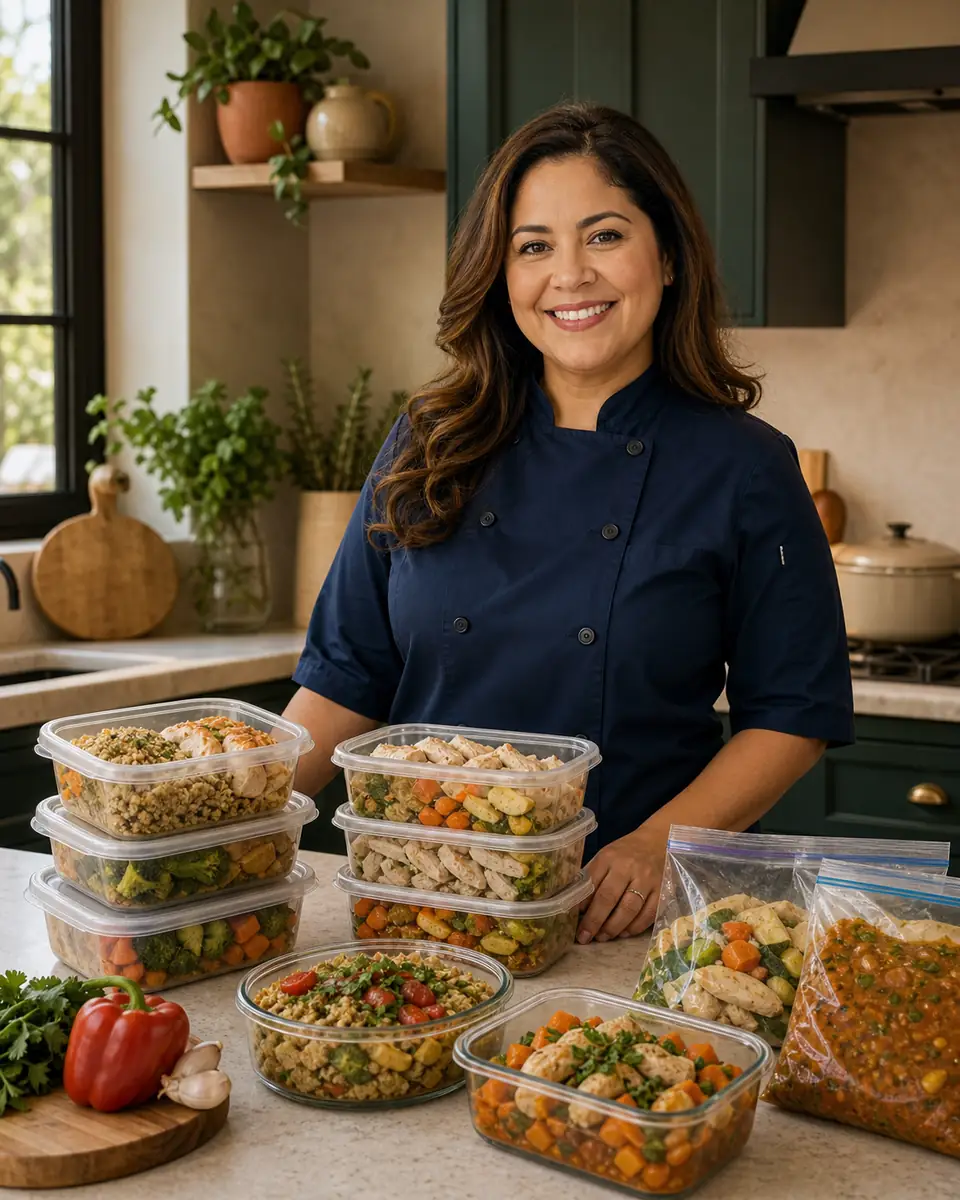
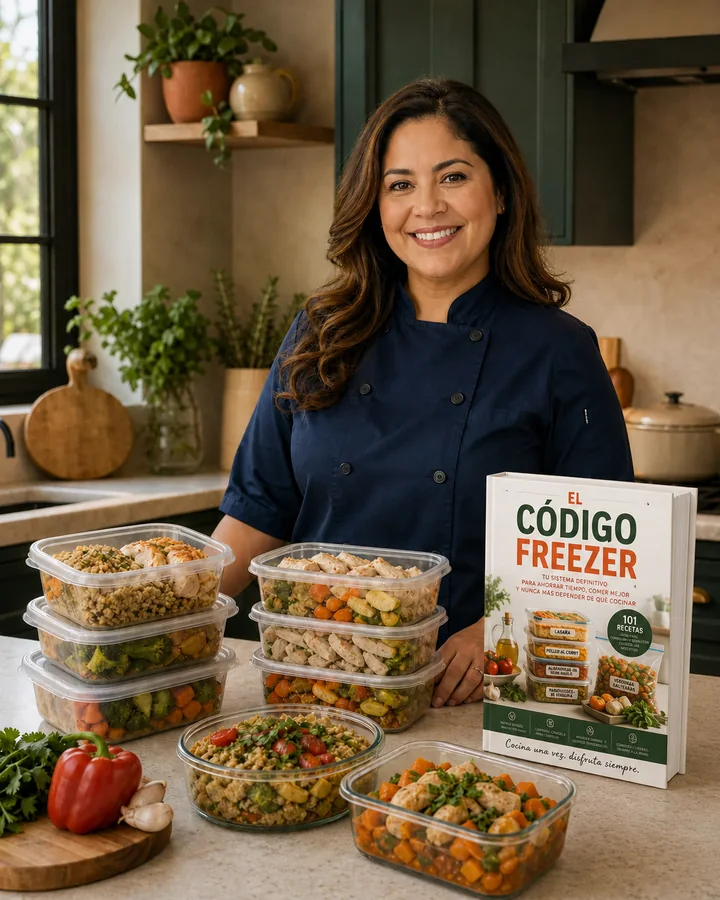
feat: actualiza landing El Codigo Freezer

diff --git a/index.html b/index.html
@@ -9,9 +9,24 @@
     <link rel="preconnect" href="https://fonts.gstatic.com" crossorigin>
     <link href="https://fonts.googleapis.com/css2?family=Fraunces:ital,opsz,wght@0,9..144,300;0,9..144,400;0,9..144,500;0,9..144,600;0,9..144,700;0,9..144,900;1,9..144,400&amp;family=Inter:wght@300;400;500;600;700&amp;display=swap" rel="stylesheet">
     <link rel="stylesheet" href="styles.css">
+    <script>
+      !function(f,b,e,v,n,t,s){if(f.fbq)return;n=f.fbq=function(){n.callMethod?
+      n.callMethod.apply(n,arguments):n.queue.push(arguments)};if(!f._fbq)f._fbq=n;
+      n.push=n;n.loaded=!0;n.version='2.0';n.queue=[];t=b.createElement(e);t.async=!0;
+      t.src=v;s=b.getElementsByTagName(e)[0];s.parentNode.insertBefore(t,s)}(window, document,'script','https://connect.facebook.net/en_US/fbevents.js');
+      fbq('init', '2003595164094318');
+      fbq('track', 'PageView');
+      fbq('track', 'ViewContent', {
+        content_name: 'EL CÓDIGO FREEZER',
+        content_type: 'product',
+        currency: 'USD',
+        value: 9.90
+      });
+    </script>
     <script src="script.js" defer></script>
   </head>
   <body>
+    <noscript><img height="1" width="1" style="display:none" alt="" src="https://www.facebook.com/tr?id=2003595164094318&amp;ev=PageView&amp;noscript=1"></noscript>
     <a class="skip-link" href="#contenido">Saltar al contenido</a>
 
     <div class="ticker" aria-label="Información de la oferta">
@@ -42,8 +57,8 @@
     <main id="contenido">
       <section class="hero section-shell">
         <div class="hero__copy">
-          <p class="eyebrow">Método de cocina por lotes</p>
-          <h1>Recetas<br><em>saludables</em> <span>para</span><br><u>congelar.</u></h1>
+          <p class="eyebrow">EL CÓDIGO FREEZER</p>
+          <h1>Recetas<br><em>prácticas</em> <span>para</span><br><u>congelar.</u></h1>
           <p class="hero__lead"><span>Deja de cocinar desde cero</span> <span>todas las semanas.</span></p>
 
           <figure class="hero__visual hero__visual--mobile">
@@ -54,7 +69,7 @@
 
           <div class="hero__action">
             <a class="button" href="#ofertas">Quiero las recetas <span aria-hidden="true">→</span></a>
-            <div class="price-inline price-pending"><s>USD —</s> <strong>USD —</strong> <small>pago único</small></div>
+            <div class="price-inline"><s>USD 27</s> <strong>USD 9.90</strong> <small>pago único</small></div>
           </div>
 
           <p class="hero__detail">Más de <strong>100 recetas</strong> de comidas saludables, listas y deliciosas para cocinar una vez y comer bien toda la semana.</p>
@@ -75,7 +90,7 @@
       </section>
 
       <section class="benefits section-shell">
-        <h2>Una cocina que <em>trabaja</em> a tu favor, no en tu contra.</h2>
+        <h2>Un Freezer que trabaja para ti, no en tu contra.</h2>
         <div class="benefits__grid">
           <article><b>01</b><h3>Cocina una vez</h3><p>Prepara toda la semana sin renunciar al sabor ni a la salud.</p></article>
           <article><b>02</b><h3>Más de 100 recetas</h3><p>Prácticas y congelables, sin perder textura ni valor nutricional.</p></article>
@@ -142,28 +157,28 @@
 
       <section class="bonuses">
         <div class="section-shell">
-          <h2>Compra hoy y recibe <em>USD — en bonos.</em></h2>
+          <h2>Compra hoy y recibe <em>USD 61 en bonos.</em></h2>
           <div class="bonus-grid">
             <article>
               <div class="bonus-meta"><span>Bono 01</span><b>Gratis hoy</b></div>
-              <img class="bonus-cover" src="assets/bono-01.webp" width="600" height="450" loading="lazy" alt="Portada del bono Plan de Porciones Inteligentes">
-              <h3>Plan de Porciones Inteligentes</h3>
-              <ul><li>4 menús completos</li><li>Más de 30 días organizados</li><li>Lista de compras estratégica</li><li>Cero desperdicio</li><li>Alineado con las recetas del libro</li></ul>
-              <div class="bonus-price"><span>Valor</span><s>R$ 67</s></div>
+              <img class="bonus-cover" src="assets/bono-01-etiquetas-freezer.webp" width="600" height="450" loading="lazy" alt="Portada del bono Pack de Etiquetas Freezer">
+              <h3>Pack de Etiquetas Freezer</h3>
+              <ul><li>Etiquetas listas para identificar tus comidas</li><li>Control visual de fecha y contenido</li><li>Organiza por tipo de preparación</li><li>Evita confusiones al descongelar</li><li>Conserva mejor cada porción</li></ul>
+              <div class="bonus-price"><span>Valor</span><s>USD 17</s></div>
             </article>
             <article>
               <div class="bonus-meta"><span>Bono 02</span><b>Gratis hoy</b></div>
-              <img class="bonus-cover" src="assets/bono-02.webp" width="600" height="450" loading="lazy" alt="Portada del bono Menús Semanales Listos">
-              <h3>Menús Semanales Listos</h3>
-              <ul><li>Semanas temáticas</li><li>Comidas equilibradas nutricionalmente</li><li>Combinaciones para congelar</li><li>Formato práctico para imprimir o guardar</li></ul>
-              <div class="bonus-price"><span>Valor</span><s>R$ 47</s></div>
+              <img class="bonus-cover" src="assets/bono-02-30-menus-freezer.webp" width="600" height="450" loading="lazy" alt="Portada del bono 30 Menús Freezer Listos">
+              <h3>30 Menús Freezer Listos</h3>
+              <ul><li>30 menús completos para congelar</li><li>Opciones desde lo básico a lo avanzado</li><li>Comidas saludables y deliciosas</li><li>Ideas pensadas para ahorrar tiempo y dinero</li></ul>
+              <div class="bonus-price"><span>Valor</span><s>USD 29</s></div>
             </article>
             <article>
               <div class="bonus-meta"><span>Bono 03</span><b>Gratis hoy</b></div>
-              <img class="bonus-cover" src="assets/bono-03.webp" width="600" height="450" loading="lazy" alt="Portada del bono Guía de Organización del Congelador">
-              <h3>Guía de Organización del Congelador</h3>
-              <ul><li>Almacenamiento profesional</li><li>Etiquetado y control de caducidad</li><li>Consejos para conservar cada comida</li><li>Checklist de envases adecuados</li></ul>
-              <div class="bonus-price"><span>Valor</span><s>R$ 39</s></div>
+              <img class="bonus-cover" src="assets/bono-03-pack-planificador-freezer.webp" width="600" height="450" loading="lazy" alt="Portada del bono Pack Planificador Freezer">
+              <h3>Pack Planificador Freezer</h3>
+              <ul><li>Planifica tus compras antes de cocinar</li><li>Organiza tus menús por semana</li><li>Congela sin estrés y con método</li><li>Ahorra tiempo y dinero en la cocina</li></ul>
+              <div class="bonus-price"><span>Valor</span><s>USD 15</s></div>
             </article>
           </div>
           <p class="bonus-note">Atención: estos bonos forman parte de una edición limitada y pueden dejar de estar disponibles sin previo aviso.</p>
@@ -172,35 +187,22 @@
 
       <section class="offers section-shell" id="ofertas">
         <div class="section-heading section-heading--center">
-          <h2>Elige tu <em>edición.</em></h2>
-          <p>Precios expresados en USD, acceso de por vida y garantía comercial de 7 días.</p>
+          <h2>Accede a <em>EL CÓDIGO FREEZER.</em></h2>
+          <p>Un solo acceso en USD, entrega por correo electrónico, acceso de por vida y garantía comercial de 7 días.</p>
         </div>
 
         <div class="offer-grid">
-          <article class="offer-card">
-            <p class="eyebrow">Edición esencial</p>
-            <h3>Edición Esencial</h3>
-            <ul class="check-list">
-              <li>Más de 100 recetas saludables</li><li>Soporte y garantía de 7 días</li><li>Acceso de por vida</li><li>Calorías y macros</li><li>Guía de utensilios y envases</li><li>Opciones sin gluten y sin lactosa</li>
-            </ul>
-            <p class="bonus-label bonus-label--missing">+ Bonos incluidos</p>
-            <ul class="missing-list"><li>Plan de Porciones Inteligentes (+30 días)</li><li>Menús semanales listos</li><li>Guía de organización del congelador</li></ul>
-            <div class="offer-price offer-price--pending"><s>USD —</s><strong>USD —</strong><small>Precio pendiente de aprobación</small></div>
-            <button class="button button--wide button--disabled" type="button" disabled><span>Comprar ahora</span><span aria-hidden="true">→</span></button>
-            <small>Compra segura · garantía de 7 días</small>
-          </article>
-
           <article class="offer-card offer-card--featured">
-            <span class="popular">Más elegido</span>
-            <p class="eyebrow eyebrow--light">Edición completa</p>
-            <h3>Edición Completa</h3>
+            <span class="popular">Oferta única</span>
+            <p class="eyebrow eyebrow--light">Acceso completo</p>
+            <h3>EL CÓDIGO FREEZER</h3>
             <ul class="check-list">
-              <li>Más de 100 recetas saludables</li><li>Calorías y macros</li><li>Guía de utensilios y envases</li><li>Opciones sin gluten y sin lactosa</li><li>Soporte y garantía de 7 días</li><li>Acceso de por vida</li>
+              <li>101 recetas organizadas por categorías</li><li>Método Freezer: cocinar, enfriar, congelar y disfrutar</li><li>Guía práctica de porcionado, etiquetado y almacenamiento</li><li>Orientación para descongelar sin arruinar sabor ni textura</li><li>Ideas para combinar proteínas, guarniciones y salsas</li><li>Entrega por correo, acceso de por vida y garantía de 7 días</li>
             </ul>
             <p class="bonus-label">+ Bonos incluidos</p>
-            <ul class="check-list check-list--bonus"><li>Plan de Porciones Inteligentes</li><li>Menús semanales listos</li><li>Guía del congelador</li><li>Actualizaciones de por vida</li></ul>
-            <div class="offer-price offer-price--pending"><s>USD —</s><strong>USD —</strong><small>Precio pendiente de aprobación</small></div>
-            <button class="button button--cream button--wide button--disabled" type="button" disabled><span>Comprar ahora</span><span aria-hidden="true">→</span></button>
+            <ul class="check-list check-list--bonus"><li>Pack de Etiquetas Freezer</li><li>30 Menús Freezer Listos</li><li>Pack Planificador Freezer</li><li>USD 61 en bonos incluidos hoy</li></ul>
+            <div class="offer-price"><s>USD 27</s><strong>USD 9.90</strong><small>pago único</small></div>
+            <a class="button button--cream button--wide" data-checkout-link href="https://pay.hotmart.com/O107278573L?checkoutMode=10"><span>Comprar ahora</span><span aria-hidden="true">→</span></a>
             <small>Compra segura · garantía de 7 días</small>
           </article>
         </div>
@@ -211,27 +213,27 @@
           <h2>Lo que dicen quienes ya <em>cocinaron.</em></h2>
           <div class="testimonial-grid">
             <figure class="testimonial-card">
-              <figcaption><img src="assets/testimonio-carolina-mendes.webp" width="128" height="128" loading="lazy" alt="Carolina Mendes"><div><strong>Carolina Mendes</strong><span>São Paulo · SP</span></div></figcaption>
+              <figcaption><img src="assets/testimonio-carolina-mendes.webp" width="128" height="128" loading="lazy" alt="Mariana López"><div><strong>Mariana López</strong><span>Ciudad de México · México</span></div></figcaption>
               <blockquote>Preparé el pollo al limón, lo congelé y me alcanzó para toda la semana. Sabor a comida recién hecha, incluso después de sacarla del congelador.</blockquote><div class="rating" aria-label="5 de 5 estrellas">★★★★★</div>
             </figure>
             <figure class="testimonial-card">
-              <figcaption><img src="assets/testimonio-paula-santos.webp" width="128" height="128" loading="lazy" alt="Paula Santos"><div><strong>Paula Santos</strong><span>Curitiba · PR</span></div></figcaption>
+              <figcaption><img src="assets/testimonio-paula-santos.webp" width="128" height="128" loading="lazy" alt="Laura Gómez"><div><strong>Laura Gómez</strong><span>Bogotá · Colombia</span></div></figcaption>
               <blockquote>El plan de porciones cambió mi vida. Salgo del trabajo y la cena ya está lista. Cero estrés.</blockquote><div class="rating" aria-label="5 de 5 estrellas">★★★★★</div>
             </figure>
             <figure class="testimonial-card">
-              <figcaption><img src="assets/testimonio-mariana-costa.webp" width="128" height="128" loading="lazy" alt="Mariana Costa"><div><strong>Mariana Costa</strong><span>Belo Horizonte · MG</span></div></figcaption>
+              <figcaption><img src="assets/testimonio-mariana-costa.webp" width="128" height="128" loading="lazy" alt="Valentina Ruiz"><div><strong>Valentina Ruiz</strong><span>Buenos Aires · Argentina</span></div></figcaption>
               <blockquote>Pensé que sería difícil sin experiencia en la cocina, pero las recetas son muy sencillas. Preparé todo el domingo.</blockquote><div class="rating" aria-label="5 de 5 estrellas">★★★★★</div>
             </figure>
             <figure class="testimonial-card">
-              <figcaption><img src="assets/testimonio-julia-oliveira.webp" width="128" height="128" loading="lazy" alt="Júlia Oliveira"><div><strong>Júlia Oliveira</strong><span>Porto Alegre · RS</span></div></figcaption>
+              <figcaption><img src="assets/testimonio-julia-oliveira.webp" width="128" height="128" loading="lazy" alt="Camila Torres"><div><strong>Camila Torres</strong><span>Santiago · Chile</span></div></figcaption>
               <blockquote>Nunca volví a desperdiciar comida. La lista de compras es genial: ahorré mucho este mes.</blockquote><div class="rating" aria-label="5 de 5 estrellas">★★★★★</div>
             </figure>
             <figure class="testimonial-card">
-              <figcaption><img src="assets/testimonio-fernanda-lima.webp" width="128" height="128" loading="lazy" alt="Fernanda Lima"><div><strong>Fernanda Lima</strong><span>Recife · PE</span></div></figcaption>
+              <figcaption><img src="assets/testimonio-fernanda-lima.webp" width="128" height="128" loading="lazy" alt="Andrea Vargas"><div><strong>Andrea Vargas</strong><span>Lima · Perú</span></div></figcaption>
               <blockquote>Tengo intolerancia a la lactosa y las recetas señalizadas facilitaron muchísimo mi rutina.</blockquote><div class="rating" aria-label="5 de 5 estrellas">★★★★★</div>
             </figure>
             <figure class="testimonial-card">
-              <figcaption><img src="assets/testimonio-beatriz-alves.webp" width="128" height="128" loading="lazy" alt="Beatriz Alves"><div><strong>Beatriz Alves</strong><span>Rio de Janeiro · RJ</span></div></figcaption>
+              <figcaption><img src="assets/testimonio-beatriz-alves.webp" width="128" height="128" loading="lazy" alt="Daniela Morales"><div><strong>Daniela Morales</strong><span>Quito · Ecuador</span></div></figcaption>
               <blockquote>Perdí 4 kg en un mes comiendo las preparaciones del libro. Saludable, práctico y delicioso.</blockquote><div class="rating" aria-label="5 de 5 estrellas">★★★★★</div>
             </figure>
           </div>
@@ -254,11 +256,11 @@
 
     <footer>
       <div class="section-shell footer-grid">
-        <h2>Recetas<br><em>saludables</em> <span>para</span><br>congelar.</h2>
+        <h2>Recetas<br><em>prácticas</em> <span>para</span><br>congelar.</h2>
         <div><b>Formato</b><p>Producto digital<br><small>Más de 100 recetas</small></p></div>
         <div><b>Acceso</b><p>Entrega digital únicamente por correo electrónico. Acceso de por vida y garantía de 7 días.</p></div>
       </div>
-      <div class="section-shell copyright"><span>© 2026 — Recetas saludables para congelar</span><span>Todos los derechos reservados</span></div>
+      <div class="section-shell copyright"><span>© 2026 — EL CÓDIGO FREEZER</span><span>Todos los derechos reservados</span></div>
     </footer>
   </body>
 </html>

diff --git a/script.js b/script.js
@@ -7,3 +7,41 @@ document.querySelectorAll('.accordion details').forEach((item) => {
     });
   });
 });
+
+(() => {
+  const storageKey = 'codigoFreezerAttribution';
+  const allowedParams = ['utm_source', 'utm_medium', 'utm_campaign', 'utm_content', 'utm_term', 'fbclid'];
+  const params = new URLSearchParams(window.location.search);
+  const saved = JSON.parse(sessionStorage.getItem(storageKey) || '{}');
+  const next = { ...saved };
+
+  allowedParams.forEach((key) => {
+    const value = params.get(key);
+    if (value) next[key] = value;
+  });
+
+  const fbp = readCookie('_fbp');
+  const fbc = readCookie('_fbc');
+  if (fbp) next._fbp = fbp;
+  if (fbc) next._fbc = fbc;
+  if (!next._fbc && next.fbclid) next._fbc = `fb.1.${Date.now()}.${next.fbclid}`;
+
+  sessionStorage.setItem(storageKey, JSON.stringify(next));
+
+  document.querySelectorAll('[data-checkout-link]').forEach((link) => {
+    const url = new URL(link.href);
+    Object.entries(next).forEach(([key, value]) => {
+      if (value && !url.searchParams.has(key)) url.searchParams.set(key, value);
+    });
+    link.href = url.toString();
+  });
+
+  function readCookie(name) {
+    return document.cookie
+      .split('; ')
+      .find((row) => row.startsWith(`${name}=`))
+      ?.split('=')
+      .slice(1)
+      .join('=');
+  }
+})();

diff --git a/styles.css b/styles.css
@@ -130,7 +130,7 @@ em { font-weight: 400; }
 .bonus-note { margin: 2rem 0 0; color: rgba(36,28,23,.64); font-family: var(--display); font-style: italic; text-align: center; }
 
 .offers { padding-block: clamp(5rem, 9vw, 8rem); }
-.offer-grid { display: grid; grid-template-columns: 1fr 1fr; gap: 1px; max-width: 1000px; margin: 3rem auto 0; background: var(--line); border: 1px solid var(--line); }
+.offer-grid { display: grid; grid-template-columns: minmax(0, 1fr); max-width: 560px; margin: 3rem auto 0; background: var(--line); border: 1px solid var(--line); }
 .offer-card { position: relative; display: flex; padding: clamp(1.6rem, 4vw, 3rem); flex-direction: column; background: var(--cream); }
 .offer-card--featured { color: var(--cream); background: var(--forest); }
 .popular { position: absolute; top: -14px; left: 50%; padding: .5rem .9rem; transform: translateX(-50%); color: var(--cream); background: var(--terracotta); font-size: .6rem; font-weight: 700; letter-spacing: .2em; text-transform: uppercase; white-space: nowrap; }
